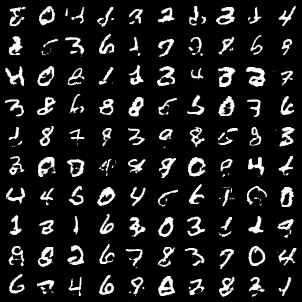
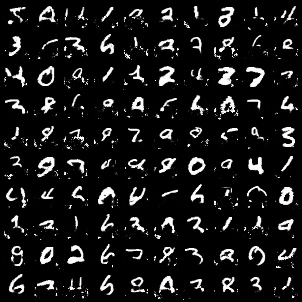
upd flow

diff --git a/hw3/flow/realnvp.py b/hw3/flow/realnvp.py
@@ -8,7 +8,7 @@ import torch.nn as nn
 import torch.nn.functional as F
 import torchvision
 from torch.distributions.normal import Normal
-from resnet import *
+import torch.nn.init as init
 
 class BatchNormFlow(nn.Module):
     """ An implementation of a batch normalization layer from
@@ -78,13 +78,11 @@ class Shuffle(nn.Module):
         self.inv_perm = torch.argsort(self.perm)
 
     def forward(self, inputs, mode='direct'):
-        bsz, n = inputs.shape
+        bsz = inputs.shape[0]
         if mode == 'direct':
-            z = inputs.gather(dim=1, index=self.perm.repeat(bsz, 1).to(inputs.device))
-            return z, torch.zeros((bsz, 1), device=inputs.device)
+            return inputs[:, self.perm], torch.zeros((bsz, 1), device=inputs.device)
         else:
-            x = inputs.gather(dim=1, index=self.inv_perm.repeat(bsz, 1).to(inputs.device))
-            return x, torch.zeros((bsz, 1), device=inputs.device)
+            return inputs[:, self.inv_perm], torch.zeros((bsz, 1), device=inputs.device)
 
 class CouplingLayer(nn.Module):
     """ An implementation of a coupling layer
@@ -97,45 +95,45 @@ class CouplingLayer(nn.Module):
         self.num_inputs = num_inputs
         self.mask = mask
         
-        self.scale_net = ResNet(s_act)
-        self.translate_net = ResNet(t_act)
-        
-        '''
-        n_hidden = 2
+        n_hidden = 1
 
-        net = [nn.Linear(num_inputs, num_hidden)]
+        s_net = [nn.Linear(num_inputs, num_hidden)]
+        t_net = [nn.Linear(num_inputs, num_hidden)]
         for _ in range(n_hidden):
-            net += [nn.Tanh(), nn.Linear(num_hidden, num_hidden), nn.BatchNorm1d(num_hidden)]
-        net += [nn.Tanh(), nn.Linear(num_hidden, num_inputs)]
+            s_net += [s_act, nn.Linear(num_hidden, num_hidden)]
+            t_net += [t_act, nn.Linear(num_hidden, num_hidden)]
+        s_net += [s_act, nn.Linear(num_hidden, num_inputs), s_act]
+        t_net += [t_act, nn.Linear(num_hidden, num_inputs)]
 
-        s_net = net + [s_act]
-        t_net = net + [t_act]
-        
         self.scale_net = nn.Sequential(*s_net)
         self.translate_net = nn.Sequential(*t_net)
-        '''
 
     def forward(self, inputs, mode='direct'):
         mask = self.mask
+        imask = 1 - mask
 
         masked_inputs = inputs * mask
-        masked_inputs_2d = masked_inputs.view(inputs.shape[0], 1, 28, -1)
 
-        scaled = self.scale_net(masked_inputs_2d)
-        transed = self.translate_net(masked_inputs_2d)
+        scaled = self.scale_net(masked_inputs)
+        transed = self.translate_net(masked_inputs)
 
-        #scaled = self.scale_net(masked_inputs)
-        #transed = self.translate_net(masked_inputs)
-
-        log_det = ((1 - mask) * scaled).sum(dim=1, keepdim=True)
+        log_det = (imask * scaled).sum(dim=1, keepdim=True)
         
+        '''
         if mode == 'direct':
-            outputs = masked_inputs + (1 - mask) * (inputs * torch.exp(scaled) + transed)
-
+            outputs = masked_inputs + imask * (inputs * torch.exp(scaled) + transed)
             return outputs, log_det
         else:
-            outputs = masked_inputs + (1 - mask) * (inputs - transed) * torch.exp(-scaled)
+            outputs = masked_inputs + imask * (inputs - transed) * torch.exp(-scaled)
             return outputs, -log_det
+        '''
+
+        if mode == 'direct':
+            outputs = masked_inputs + imask * (inputs - transed) * torch.exp(-scaled)
+            return outputs, -log_det
+        else:
+            outputs = masked_inputs + imask * (inputs * torch.exp(scaled) + transed)
+            return outputs, log_det
 
 class FlowSequential(nn.Sequential):
     """ A sequential container for flows.

diff --git a/hw3/flow/train.py b/hw3/flow/train.py
@@ -45,7 +45,7 @@ parser.add_argument(
 parser.add_argument(
     '--num-hidden',
     type=int,
-    default=100)
+    default=1000)
 parser.add_argument(
     '--seed', type=int, default=2018011309, help='random seed (default: 1)')
 
@@ -138,8 +138,7 @@ masks.extend([mask2, 1 - mask2])
 
 for i in range(args.num_blocks):
     modules += [
-        realnvp.CouplingLayer(
-            num_inputs, num_hidden, masks[i % len(masks)]),
+        realnvp.CouplingLayer(num_inputs, num_hidden, masks[i % len(masks)]),
         realnvp.BatchNormFlow(num_inputs, 0.1),
         realnvp.Shuffle(num_inputs)
     ]
@@ -170,6 +169,7 @@ def train(epoch):
         idx = batch_idx
 
         data = data.to(device)
+        
         optimizer.zero_grad()
         loss = - model.log_probs(data).mean()
         train_loss += loss.item()
@@ -227,6 +227,7 @@ for epoch in range(args.epochs):
             param_group['lr'] = args.lr
 
     train(epoch)
+
     validation_loss = validate(epoch, model, valid_loader)
     if epoch % 10 == 0:
         save_path = os.path.join(args.logdir, "models/checkpoint{}.pt".format(epoch + 1))
@@ -247,4 +248,3 @@ for epoch in range(args.epochs):
 
     save_path = os.path.join(args.logdir, "images")
     model.save_images(epoch, save_path)
-
